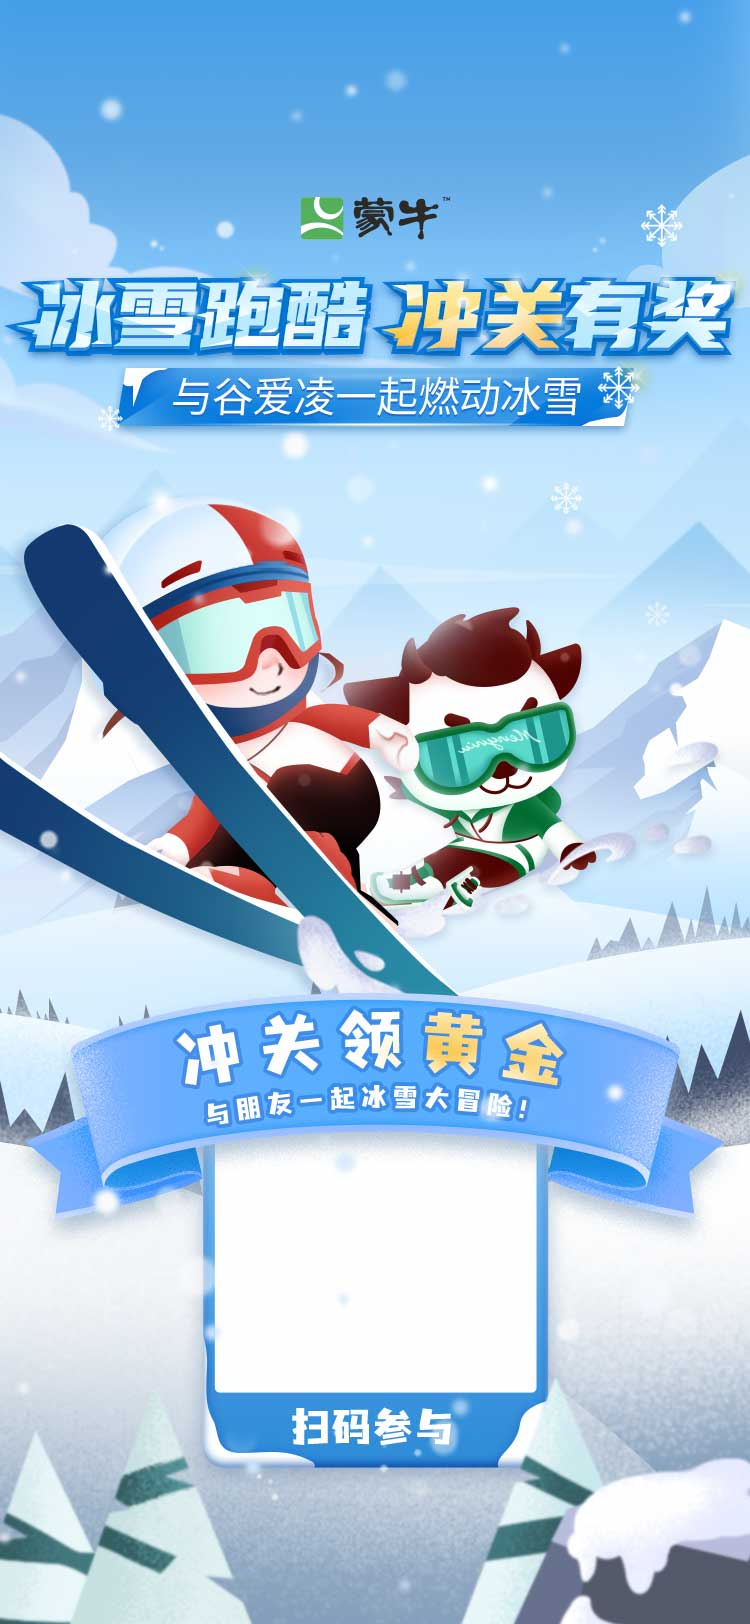
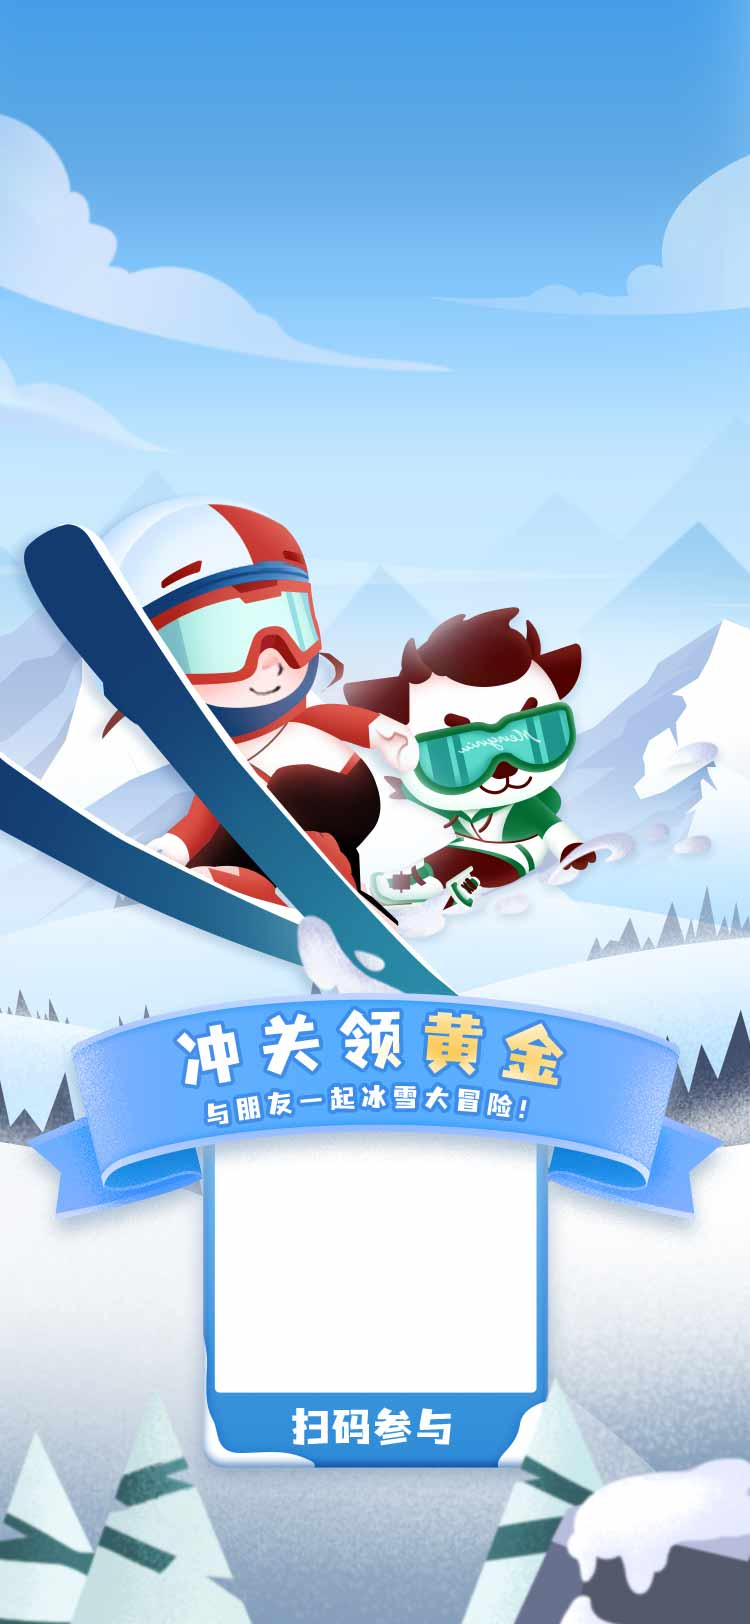
修改海报页适配

diff --git a/src/panel/poster/poster.jsx b/src/panel/poster/poster.jsx
@@ -23,9 +23,7 @@ class Poster extends React.Component {
 
   async componentDidMount() {
     await this.getErCodeImg();
-    console.log(3222)
     const dataUrl = await htmlShot(this.poster); //整个页面截图
-    console.log(111111,dataUrl)
     this.setState({
       posterImg: dataUrl
     })
@@ -47,12 +45,13 @@ class Poster extends React.Component {
     const {posterImg, codeImg} = this.state;
     return (
       <div className="posterpage" ref={(el) => (this.poster = el)}>
+        <div src="" alt="" className="posterTitle"></div>
         {/* <div className="codeBox" ref={(el) => (this.erCode = el)}>
 
         </div> */}
         <img src={codeImg} alt="" className="codeBox"/>
         {/* <img src={USER_AVATAR} alt="" className="ren"/> */}
-        <img src={posterImg} className="posterpage-img"/>
+        {/* <img src={posterImg} className="posterpage-img"/> */}
         <div className="back-poster" onClick={() => modalStore.closePop("Poster")}>返回</div>
       </div>
     );

diff --git a/src/panel/poster/poster.less b/src/panel/poster/poster.less
@@ -5,23 +5,31 @@
   height: 1624px;
   .sparkBg("homePage/poster.jpg");
   position: relative;
+  .posterTitle {
+    position: absolute;
+    width: 750px;
+    height: 242px;
+    top:230px;
+    .sparkBg("homePage/posterTitle.png");
+
+  }
   .posterpage-img {
     width: 750px;
     height: 1624px;
   }
   .codeBox {
     position: absolute;
-    top: 1144px;
+    top: 1160px;
     left: 258px;
     overflow:hidden;
-    width: 240px;
-    height: 240px;
+    width: 220px;
+    height: 220px;
     // border-radius: 50%;
     display: flex;
     align-items: center;
     justify-content: center;
     box-sizing: border-box;
-    z-index: -1;
+    // z-index: -1;
     img,canvas {
       // border-radius: 50%;
       overflow:hidden;
@@ -44,7 +52,7 @@
     left: -20px;
     padding-left: 15px;
     box-sizing: border-box;
-    top:200px;
+    top:230px;
     width: 120px;
     height: 40px;
     line-height: 40px;

diff --git a/sparkrc.js b/sparkrc.js
@@ -10,5 +10,5 @@ module.exports ={
   "IMAGE_Q2": 0.8,
   "RES_PATH": "/src/assets/",
   "RES_PATH_PROD": "//yun.duiba.com.cn/spark/v2/temp_base/1642648013896",
-  "JS_PATH_PROD": "https://yun.duiba.com.cn/spark/v2/temp_base/1642732580993/js"
+  "JS_PATH_PROD": "https://yun.duiba.com.cn/spark/v2/temp_base/1642733874567/js"
 }
